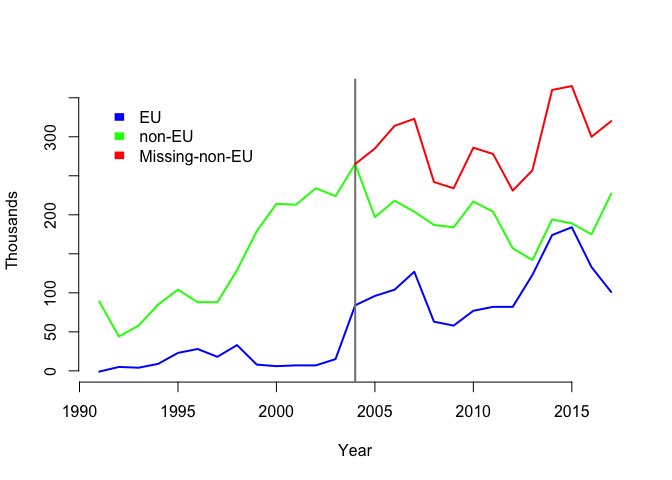
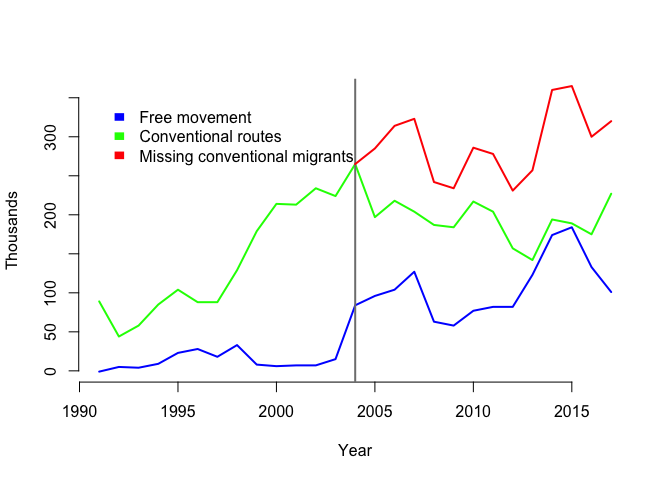
Migration graphs

Changed region(s): [[0.1875, 0.2188, 0.5312, 0.3438]]

diff --git a/files/Migration/Graph.md b/files/Migration/Graph.md
@@ -1,64 +1,4 @@
-I'm interested in how migration from the EU and non-EU changed over
-time, and the effect that free movement for EU nationals had on access
-for non-EU migrants. Rather than go back to the start of free movement,
-I focused on the effect the [expansion of the Union from
-2004](https://eu.boell.org/en/2014/06/10/europe-after-eastern-enlargement-european-union-2004-2014).
-
-The problem, of course, is estimating the number of non-EU migrants
-there *would* have been without the expansion [1]. Recent [reports from
-the Office of National Statistics
-(ONS)](https://www.ons.gov.uk/peoplepopulationandcommunity/populationandmigration/internationalmigration/bulletins/migrationstatisticsquarterlyreport/may2019)
-gave me an idea for a method of working it out. The numbers have shown
-that as EU migration to the UK has fallen, non-EU migrants are taking up
-the slack. Economists have concluded that [UK employers are willing to
-make the extra effort to sponsor
-migrants](https://www.newstatesman.com/politics/staggers/2019/05/when-it-comes-immigration-uk-already-post-brexit-era)
-when fewer bureaucratic options are available.
-
-Importantly, this implies that over the short term there is roughly a
-total number of jobs or other social positions that can be filled by
-migration each year [2]. Therefore, we can estimate the number of non-EU
-migrants there would have been without expansion using the number of EU
-migrants who came to the UK through freedom of movement.
-
-The ONS data comes in multiple tables with lots of detail, but
-fortunately the [Migration Observatory at Oxford
-University](https://migrationobservatory.ox.ac.uk/resources/briefings/long-term-international-migration-flows-to-and-from-the-uk/)
-have compiled the annual net migration data by EU/non-EU, which can be
-downloaded as a [.csv file](net-migration-by-citizen.csv). The file
-lists the net number (in thousands) of EU and non-EU migrants coming to
-the UK between 1991 and 2017 [3]. The figures for EU migration from 2004
-to 2007 are underestimated because of a problem with measurement. Before
-2004, 'EU' refers to the pre-expanded EU (western Europe); migrants from
-countries who joined the EU around 2004 are included in 'non-EU' before
-2004, and 'EU' after. For the purpose of this analysis that makes sense:
-the analysis is looking at disparities in access according to whether
-using freedom of movement or conventional means, and not singling-out
-migration from particular countries.
-
-Having loaded the data into [R](https://www.r-project.org), a free
-statistical software [4]. The raw data is presented in the simple graph
-below. It shows EU and non-EU net migration from 1991 to 2017. We can
-see the strong upward trend in non-EU migration from 1991 to 2004 (green
-line), and subsequent leveling-off or slight decline. In contrast, the
-blue EU line is relatively flat before 2004, after which it jumps up.
-
 ![](Graph_files/figure-markdown_strict/unnamed-chunk-1-1.png)
-
-I did a couple of small calculations (in the code at the end) to get a
-rough estimate of the number of non-EU migrants that there *would have
-been* had the EU not expanded in 2004 (the 'missing' non-EU migrants). I
-added the number of EU migrants to the number of non-EU migrants after
-2004; the assumption here is that the jobs would have been filled by a
-mix of EU and non-EU migrant, using the same logic applied to the recent
-ONS figures. Since there was a constant level of net migration from the
-EU before 2004, I subtracted the median migration between 1991 and 2003
-from each year after 2003.
-
-The number of non-EU migrants that would be expected had there not been
-the expansion in 2004 is shown in red on the graph below. This shows the
-'missing' non-EU migrants; as expected this tracks the EU and non-EU
-migration.
 
 ![](Graph_files/figure-markdown_strict/unnamed-chunk-2-1.png)
 
@@ -71,31 +11,3 @@ the 'missing' are 31% of the total non-EU nationals that would be living
 in the UK without the expansion of access in 2004. Another way of
 putting it, would be to say that the non-EU born population of the UK in
 2017 would have been 45% higher than it was.
-
-This is a crude analysis, and a very rough estimate of the
-counterfactual effects on non-EU migration had free movement of people
-not been expanded in 2004. There are of course assumoptions, such as
-that the economy would have grown at the same rate, which could affect
-the result. It's somewhat confusing having people from countries that
-joined the EU in 2004 count in different groups depending on the year;
-another analysis might break these down, but I am more interested in the
-route of access than in which countries people are coming from.
-
-    # Add EU migration after 2003
-    m91_03 <- median(d[1:13,5]) # median migration before 2003
-    d$nonEU.plus <- d$Non.EU + d$EU - m91_03
-    d[1:14,6] <- d[1:14,4]
-
-[1] This is known as the 'counterfactual', what happened counter to
-fact, and estimating this is the main problem in causal analysis
-because, by definition, it isn't observed.
-
-[2] The total number of posts (jobs, relationships) can increase because
-of the effects of migration on the economy, it's not that there's a
-limit to the size the country/economy could become, however that takes
-time. It's a dynamic process, but in the short-run it seems like a
-plausible simplification to say there are a finite number of posts.
-
-[3] 2018-2019 would be possible but require downloading the ONS data).
-
-[4] All the code for this post is available [here](Graph.Rmd).

diff --git a/_posts/2019-06-01-nonEUmigration.md b/_posts/2019-06-01-nonEUmigration.md
@@ -46,7 +46,7 @@ blue line showing EU-free-movement migration is relatively flat before 2004, aft
 
 I did a couple of small calculations (in the code at the end) to get a
 rough estimate of the number of migrants from conventional routes that there *would have
-been* had the EU not expanded in 2004 (the 'missing' non-EU migrants). I
+been* had the EU not expanded in 2004. I
 added the number of EU migrants to the number of non-EU migrants after
 2004; using the same logic applied to the recent
 ONS figures, the assumption is that the total number of positions would have been filled by a
@@ -60,11 +60,11 @@ the expansion of the EU in 2004 is shown in red on the graph below.
 ![](../files/Migration/Graph_files/figure-markdown_strict/unnamed-chunk-2-1.png)
 
 The total 'missing' migrants from conventional routes is the sum of the difference between
-the red and green lines, which is 2,572,000. Since the Migration
+the red and green lines: 2,572,000 people. Since the Migration
 Observatory estimates the non-EU foreign-born population in the UK in 2017
 was [5,677,000](https://migrationobservatory.ox.ac.uk/resources/briefings/migrants-in-the-uk-an-overview/),
 the 'missing' are 31% of the total non-EU population that would be living
-in the UK had there been no EU expansion in 2004. In other words: the non-EU-born population of the UK in 2017 would have been 45% higher than it was. (N.B. this is a slight over-estimate since the Migration Observatory figure for 2017 doesn't include nationals of countries that joined the EU in 2004 and in our counterfactual scenario they would count as having arrived through conventional means.)
+in the UK had there been no EU expansion in 2004. In other words: the non-EU-born population of the UK in 2017 would have been 45% higher than it was. (N.B. this is a slight over-estimate since the Migration Observatory figure for 2017 doesn't include nationals of countries that joined the EU in 2004 and in our counterfactual scenario they would count as having arrived through conventional means. This could be fixed by adding the number of migrants who would have come to the UK from those countries by conventional means to the denominator.)
 
 This is a crude analysis, and a very rough estimate. There are of course assumptions, such as
 that the economy would have grown at the same rate, which could affect
